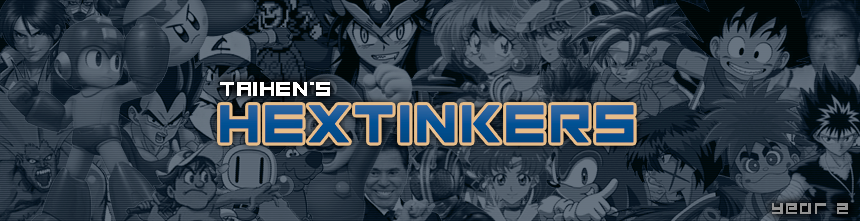
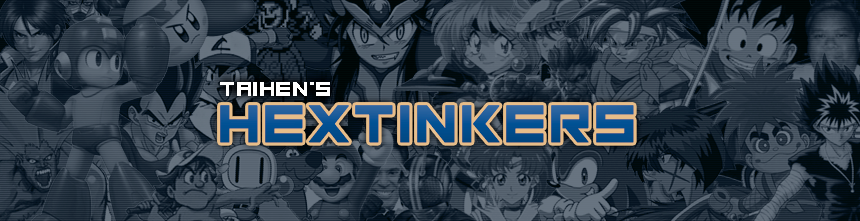
Site update

diff --git a/_layouts/base.html b/_layouts/base.html
@@ -3,7 +3,7 @@
   {%- include header.html -%}
 <body>
 <div class="global-container">
-  <div class="header-container" id="top"> <a href="{{site.url}}"><img src="{{site.url}}/img/header_2024.png" alt="Taihen's Hextinkers - ROM hacking e tradução de jogos" class="responsive-header-img"></a> </div>
+  <div class="header-container" id="top"> <a href="{{site.url}}"><img src="{{site.url}}/img/header.png" alt="Taihen's Hextinkers - ROM hacking e tradução de jogos" class="responsive-header-img"></a> </div>
   <div class="menu-container">
 <input type="checkbox" id="menu-toggle" class="menu-toggle" />
     <label for="menu-toggle" class="menu-toggle-btn">Menu</label>
